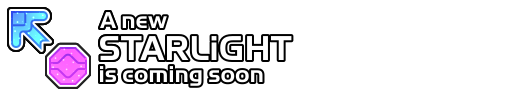
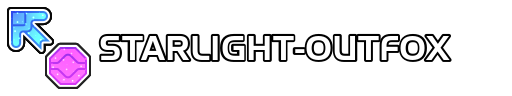
Updated header for sequel

Changed region(s): [[0.1875, 0.3438, 0.9062, 0.9375], [0.1875, 0.0938, 0.3438, 0.3125]]

diff --git a/otoge/starlight_ja.html b/otoge/starlight_ja.html
@@ -33,6 +33,25 @@
     </ul>
   </div>
   <div id="content">
+    <div class="section" id="promo">
+      <h3><svg class="chevron" viewBox="0 0 24 24">
+          <path fill="currentColor" d="M7.41,8.58L12,13.17L16.59,8.58L18,10L12,16L6,10L7.41,8.58Z" />
+        </svg>告知
+      </h3>
+      <div class="imgBox"><img src="./starlight/promo.png"></div>
+      <p>STARLiGHT&thinsp;の続編が&thinsp;Stepmania 5.3&thinsp;用に公開されました。</p>
+      <h4>特色</h4>
+      <ul>
+        <li>同じノーツの形、新しい星がちりばめられたようなテクスチャー</li>
+        <li>解像度が二倍に、128pxから256pxへ</li>
+        <li>全ゲームモードに対応（中央パネルが追加！）</li>
+        <li>閃光のデザインを一新</li>
+        <li>地雷ノーツのデザインを改良</li>
+        <li>Stepmania 5.3&thinsp;用に設計</li>
+      </ul>
+      <a href="https://drive.google.com/file/d/1P2Kj39u0wKXgFOAfe2D6IBGMS6rOt9UA/view?usp=sharing">ダウンロード</a>
+      <p><b>注意： このノートスキンは&thinsp;Outfox&thinsp;用のテーマ&thinsp;Starlight TWOpointZERO&thinsp;の一部ではありません。</b></p>
+    </div>
     <div class="section">
       <h3>
         <svg class="chevron" viewBox="0 0 24 24">
@@ -382,24 +401,6 @@
           </ul>
         </li>
       </ul>
-    </div>
-    <div class="section" id="promo">
-      <h3><svg class="chevron" viewBox="0 0 24 24">
-          <path fill="currentColor" d="M7.41,8.58L12,13.17L16.59,8.58L18,10L12,16L6,10L7.41,8.58Z" />
-        </svg>告知
-      </h3>
-      <div class="imgBox"><img src="./starlight/promo.png"></div>
-      <p>STARLiGHT&thinsp;の続編が&thinsp;Stepmania 5.3&thinsp;用に公開されました。</p>
-      <h4>特色</h4>
-      <ul>
-        <li>同じノーツの形、新しい星がちりばめられたようなテクスチャー</li>
-        <li>画素数が二倍に、128pxから256pxへ</li>
-        <li>全ゲームモードに対応（中央パネルが追加！）</li>
-        <li>閃光のデザインを一新</li>
-        <li>地雷ノーツのデザインを改良</li>
-        <li>Stepmania 5.3&thinsp;用に設計</li>
-      </ul>
-      <a href="https://drive.google.com/file/d/1P2Kj39u0wKXgFOAfe2D6IBGMS6rOt9UA/view?usp=sharing">ダウンロード</a>
     </div>
     <div id="footer">
       <a href="../otoge.html">OTOGEに戻る</a>

diff --git a/otoge/starlight.html b/otoge/starlight.html
@@ -33,6 +33,25 @@
     </ul>
   </div>
   <div id="content">
+    <div class="section" id="promo">
+      <h3><svg class="chevron" viewBox="0 0 24 24">
+          <path fill="currentColor" d="M7.41,8.58L12,13.17L16.59,8.58L18,10L12,16L6,10L7.41,8.58Z" />
+        </svg>announcement
+      </h3>
+      <div class="imgBox"><img src="./starlight/promo.png"></div>
+      <p>STARLiGHT's sequel is now available for Project Outfox.</p>
+      <h4>Features</h4>
+      <ul>
+        <li>Same note shape, new textured overlays</li>
+        <li>Doubled resolution from 128px to 256px</li>
+        <li>Support for all gamemodes (That means adding a center panel!)</li>
+        <li>Redesigned explosions</li>
+        <li>New and improved mines</li>
+        <li>Made with Project Outfox features in mind</li>
+      </ul>
+      <a href="https://drive.google.com/file/d/1P2Kj39u0wKXgFOAfe2D6IBGMS6rOt9UA/view?usp=sharing">Download</a>
+      <p><b>NOTE: This Noteskin is not part of the theme “Starlight TWOpointZERO” for Outfox.</b></p>
+    </div>
     <div class="section">
       <h3><svg class="chevron" viewBox="0 0 24 24">
           <path fill="currentColor" d="M7.41,8.58L12,13.17L16.59,8.58L18,10L12,16L6,10L7.41,8.58Z" />
@@ -354,24 +373,6 @@
           </ul>
         </li>
       </ul>
-    </div>
-    <div class="section" id="promo">
-      <h3><svg class="chevron" viewBox="0 0 24 24">
-          <path fill="currentColor" d="M7.41,8.58L12,13.17L16.59,8.58L18,10L12,16L6,10L7.41,8.58Z" />
-        </svg>announcement
-      </h3>
-      <div class="imgBox"><img src="./starlight/promo.png"></div>
-      <p>STARLiGHT's sequel is now available for Project Outfox.</p>
-      <h4>Features</h4>
-      <ul>
-        <li>Same note shape, new textured overlays</li>
-        <li>Doubled resolution from 128px to 256px</li>
-        <li>Support for all gamemodes (That means adding a center panel!)</li>
-        <li>Redesigned explosions</li>
-        <li>New and improved mines</li>
-        <li>Made with Project Outfox features in mind</li>
-      </ul>
-      <a href="https://drive.google.com/file/d/1P2Kj39u0wKXgFOAfe2D6IBGMS6rOt9UA/view?usp=sharing">Download</a>
     </div>
     <div id="footer">
       <a href="../otoge.html">Back to Otoge</a>
